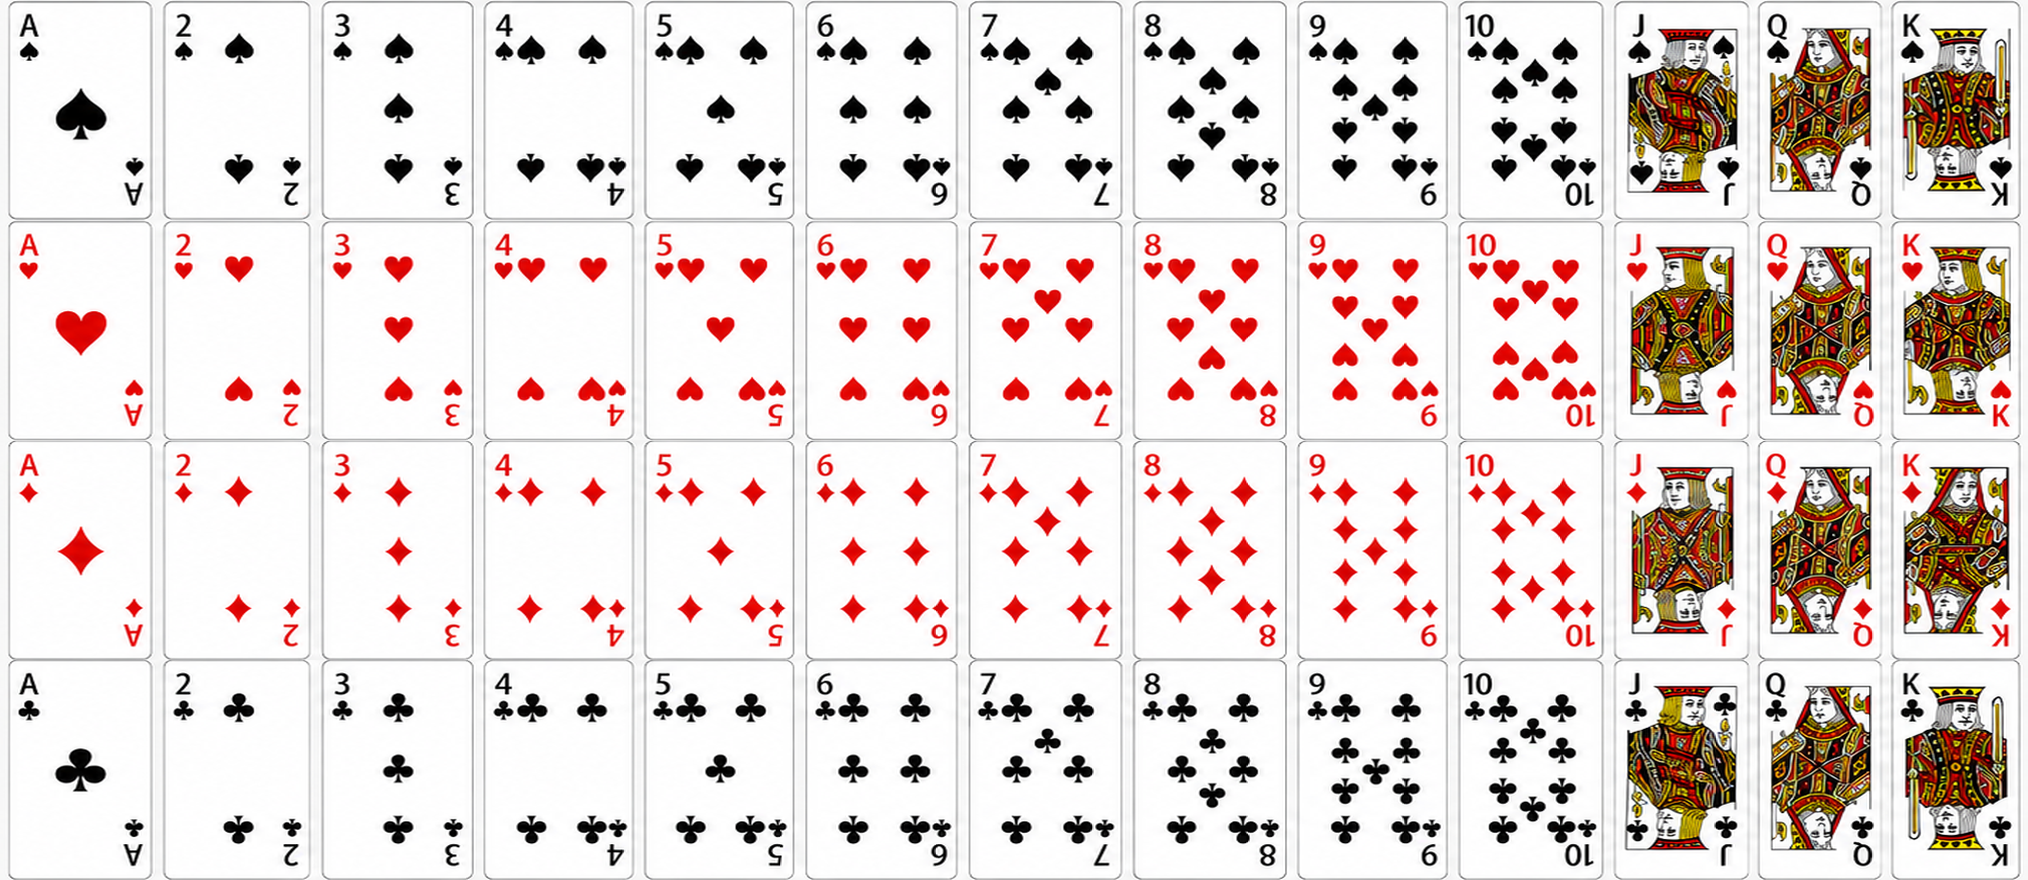
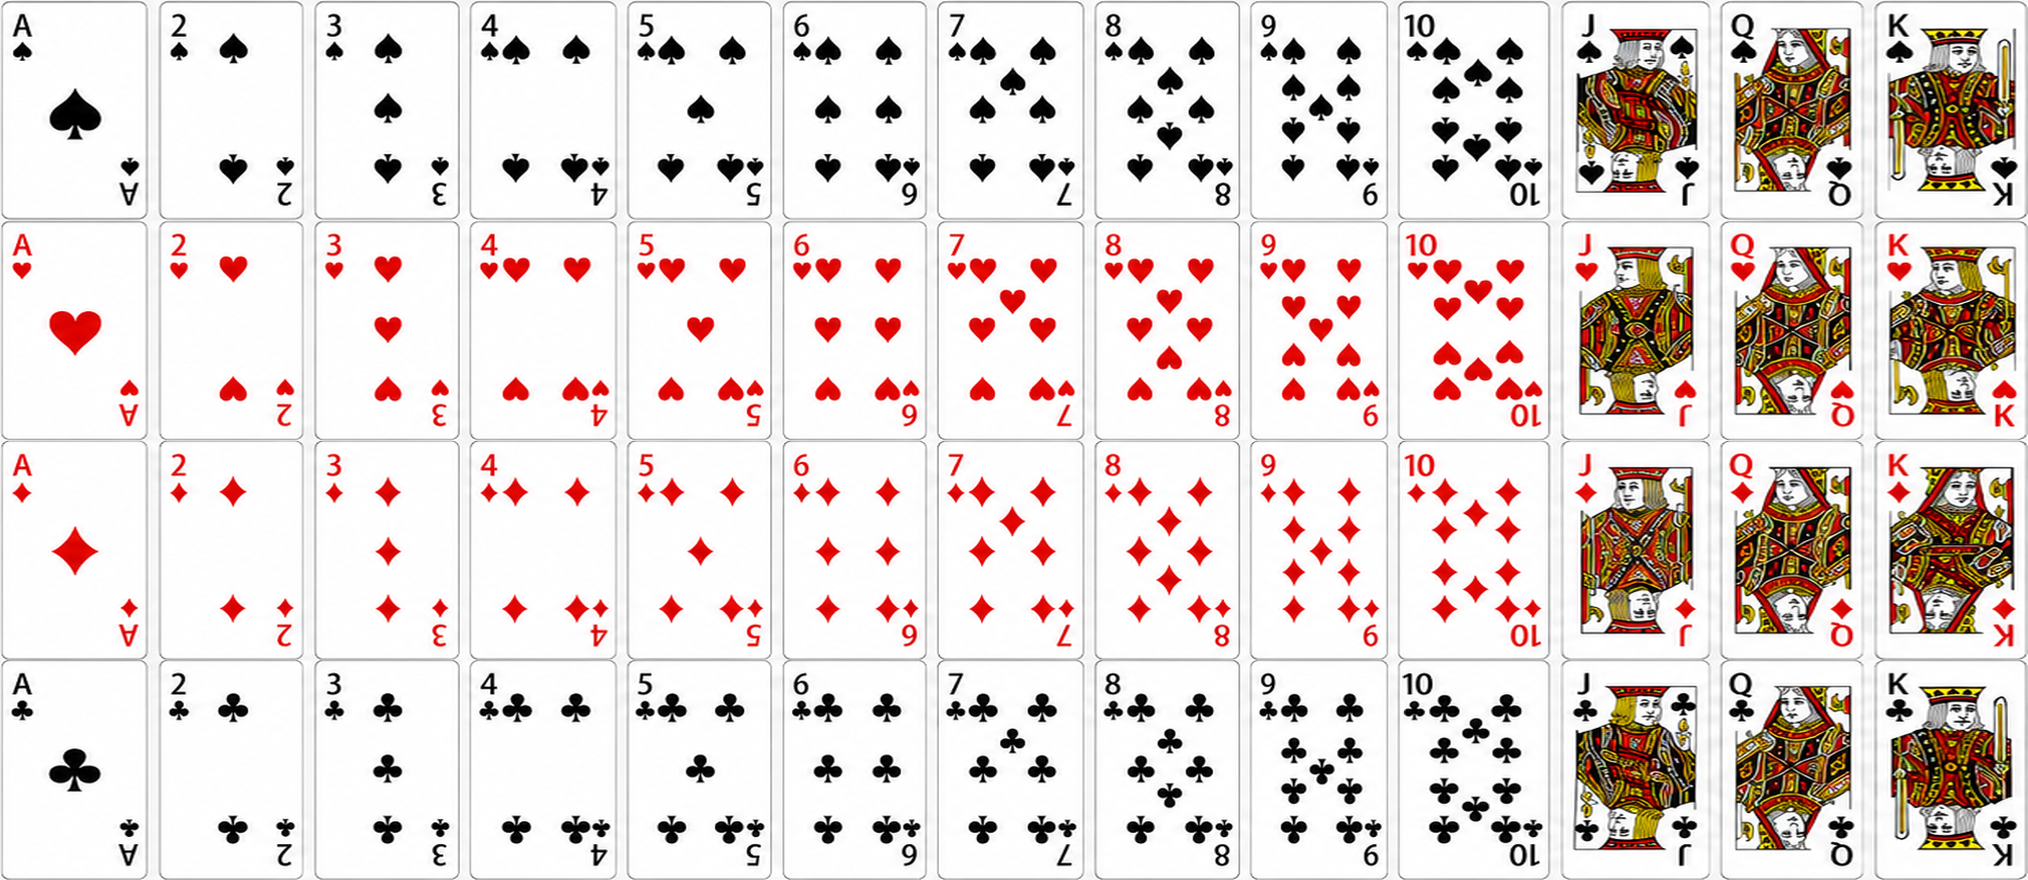
Cards: realign sprite to actual source layout, fix suit-key encoding
The previous re-bake assumed uniform card pitch but the source had
variable spacing (number cards ~112px, face cards ~96px), so middle
cards came out as halves of two adjacent cards. Detect rank-label
positions in each row of the source, crop each card by its true bounds,
and stack into a clean 13x4 grid.

Also use \u escapes for the suit-glyph keys in casino-cards.js so the
lookup is invariant to how the file is decoded by the browser.

diff --git a/casino/casino-cards.js b/casino/casino-cards.js
@@ -26,11 +26,13 @@
     'K': 12, 'k': 12
   };
 
+  // Suit glyphs as \u escapes (ASCII-only source) so the keys are invariant
+  // regardless of how the JS file is decoded by the browser.
   const SUIT_TO_ROW = {
-    '♠': 0, 'spades': 0, 'spade': 0, 's': 0, 'S': 0,
-    '♥': 1, 'hearts': 1, 'heart': 1, 'h': 1, 'H': 1,
-    '♦': 2, 'diamonds': 2, 'diamond': 2, 'd': 2, 'D': 2,
-    '♣': 3, 'clubs': 3, 'club': 3, 'c': 3, 'C': 3
+    '\u2660': 0, 'spades': 0, 'spade': 0, 's': 0, 'S': 0, // \u2660
+    '\u2665': 1, 'hearts': 1, 'heart': 1, 'h': 1, 'H': 1, // \u2665
+    '\u2666': 2, 'diamonds': 2, 'diamond': 2, 'd': 2, 'D': 2, // \u2666
+    '\u2663': 3, 'clubs': 3, 'club': 3, 'c': 3, 'C': 3 // \u2663
   };
 
   function rankIndex(rank) {

diff --git a/blackjack/index.html b/blackjack/index.html
@@ -154,7 +154,7 @@
 
 <script src="../casino/casino-bankroll.js?v=20260507j"></script>
 <script src="../casino/casino-player.js?v=20260507a"></script>
-<script src="../casino/casino-cards.js?v=20260508a"></script>
+<script src="../casino/casino-cards.js?v=20260508b"></script>
 <script src="bj-sfx.js?v=20260507j"></script>
 
 <script type="text/babel" src="tweaks-panel.jsx?v=20260508a"></script>

diff --git a/solitaire/index.html b/solitaire/index.html
@@ -126,7 +126,7 @@
 
 <script src="sol-sfx.js?v=20260506a"></script>
 <script src="../casino/casino-player.js?v=20260507a"></script>
-<script src="../casino/casino-cards.js?v=20260508a"></script>
+<script src="../casino/casino-cards.js?v=20260508b"></script>
 
 <script type="text/babel" src="tweaks-panel.jsx?v=20260508a"></script>
 <script type="text/babel" src="sol-card.jsx?v=20260507a"></script>

diff --git a/texas-holdem/index.html b/texas-holdem/index.html
@@ -162,7 +162,7 @@
 
 <script src="../casino/casino-bankroll.js?v=20260507a"></script>
 <script src="../casino/casino-player.js?v=20260507a"></script>
-<script src="../casino/casino-cards.js?v=20260508a"></script>
+<script src="../casino/casino-cards.js?v=20260508b"></script>
 <script src="th-deck.js?v=20260507a"></script>
 <script src="th-hand.js?v=20260507a"></script>
 <script src="th-equity.js?v=20260507a"></script>

diff --git a/three-card-poker/index.html b/three-card-poker/index.html
@@ -142,7 +142,7 @@
 
 <script src="../casino/casino-bankroll.js?v=20260506a"></script>
 <script src="../casino/casino-player.js?v=20260507a"></script>
-<script src="../casino/casino-cards.js?v=20260508a"></script>
+<script src="../casino/casino-cards.js?v=20260508b"></script>
 <script src="tcp-deck.js?v=20260506a"></script>
 <script src="tcp-hand.js?v=20260506a"></script>
 <script src="tcp-strategy.js?v=20260506a"></script>

diff --git a/video-poker/index.html b/video-poker/index.html
@@ -142,7 +142,7 @@
 
 <script src="../casino/casino-bankroll.js?v=20260507j"></script>
 <script src="../casino/casino-player.js?v=20260507a"></script>
-<script src="../casino/casino-cards.js?v=20260508a"></script>
+<script src="../casino/casino-cards.js?v=20260508b"></script>
 <script src="vp-deck.js?v=20260507j"></script>
 <script src="vp-hand.js?v=20260507j"></script>
 <script src="vp-strategy.js?v=20260507j"></script>